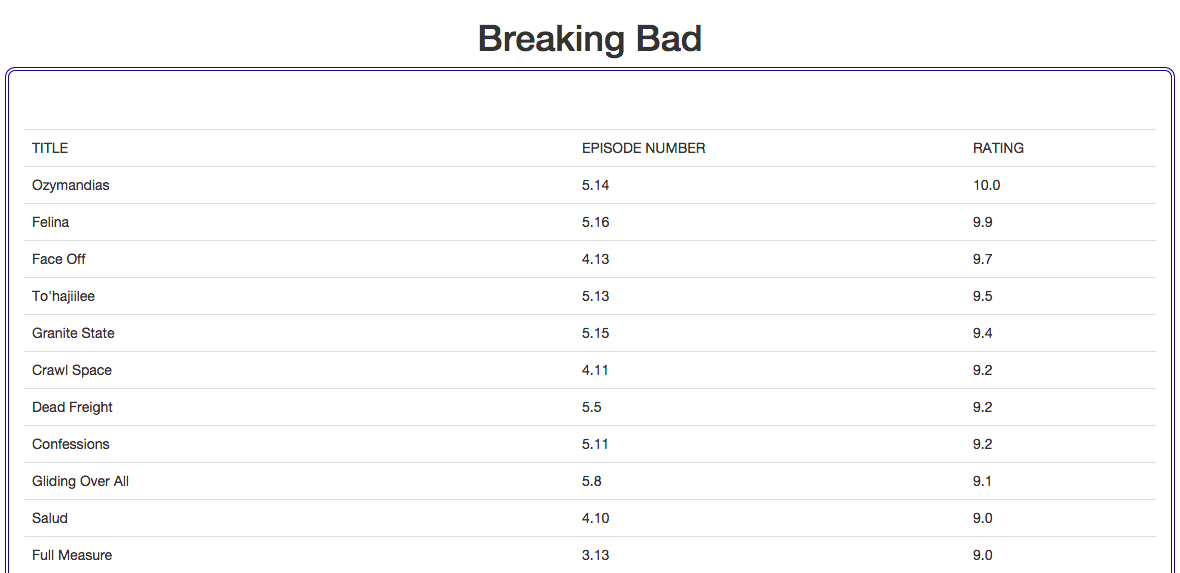
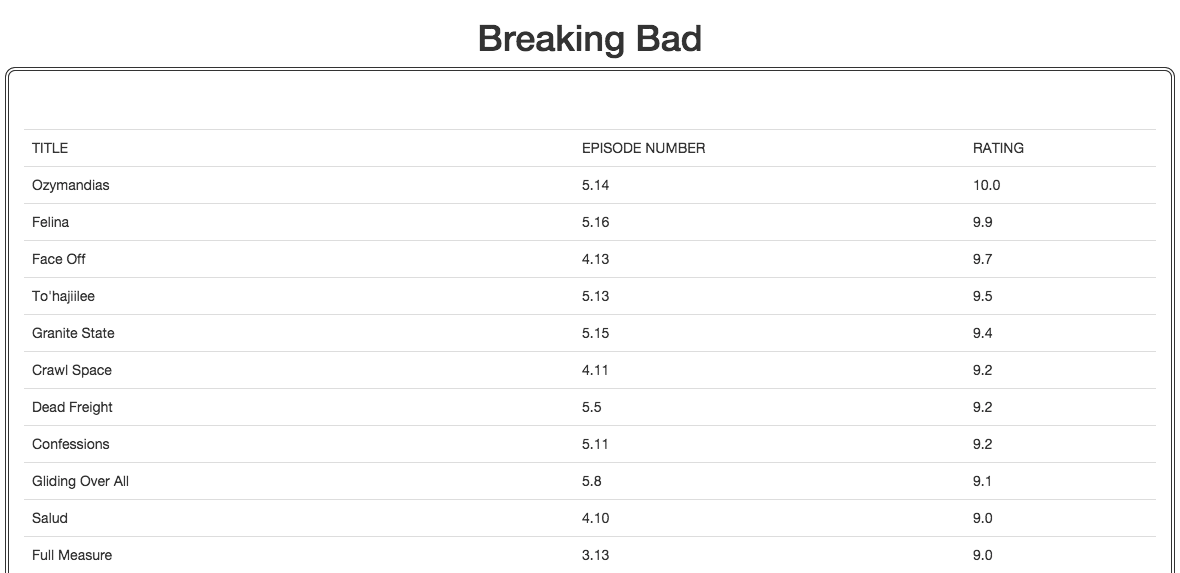
before deployment

diff --git a/app/assets/stylesheets/style.css.scss b/app/assets/stylesheets/style.css.scss
@@ -8,6 +8,7 @@
 }
 $serif-font: 'Euclid', serif;
 $heading-font: 'Armonioso', sans-serif;
+$teal: #06cc84;
 
 body {
   background-image: url(geometry2.png);
@@ -20,7 +21,7 @@ body {
   border-radius: 8px;
   height: 100px;
   padding: 20px 70px 20px 70px;
-  color: #06cc84; //light teal
+  color: $teal;
   text-decoration: none;
   font-family: $serif-font;
   font-size: 16pt;
@@ -30,7 +31,6 @@ body {
   width: 700px;
   margin: 0 auto;
 }
-
 h1 {
   font-family: $heading-font;
   font-size: 64pt;
@@ -42,7 +42,7 @@ h1 {
 h3 {
   font-family: $serif-font;
   margin-top: -60px;
-  color: #06cc84;
+  color: $teal;
   font-size: 20pt;
 }
 #name {
@@ -64,7 +64,7 @@ h3 {
 
 h4 {
   font-family: $heading-font;
-  color: #06cc84;
+  color: $teal;
   font-size: 22pt;
   margin-bottom: 50px;
 }
@@ -97,7 +97,7 @@ h4 {
   margin: 0 auto;
   line-height: 150%;
   text-decoration: none;
-  color:#06cc84;
+  color:$teal;
 }
 #really-like ul, #about-me ul, #skills ul {
   list-style-type: none;
@@ -123,7 +123,7 @@ h4 {
   margin: 0 10px 0 10px;
 }
 #github {
-  background-image: url(github.png);
+  background-image: url(heisencat.png);
 }
 #twitter {
   background-image: url(twitter.png);
@@ -134,7 +134,6 @@ h4 {
 #linkedin {
   background-image: url(linkedin.png);
 }
-
 
 .projjies-container {
   width: 80%;
@@ -162,7 +161,7 @@ h4 {
   position: relative;
   width: 350px;
   float: left;
-//  border: 1px solid darkblue;
+  border: 4px double $teal;
   border-radius: 10px;
 }
 span.text-content {
@@ -219,9 +218,15 @@ span.text-content {
   font-family: $serif-font;
   margin: 0 20px 0 20px;
 }
-
 .divider {
   margin: 0 auto;
   margin-top: -40px;
   width:240px;
+}
+a {
+  text-decoration: none;
+}
+#cv {
+  font-family: $heading-font;
+  color: $teal;
 }

diff --git a/app/assets/templates/about.html b/app/assets/templates/about.html
@@ -1,4 +1,5 @@
-<div class="navigation-buttons">
+<div class="navigation-buttons"
+		 xmlns="http://www.w3.org/1999/html">
 	<a class="page-links" ui-sref="home">home</a>
 	<a class="page-links" ui-sref="portfolio">portfolio</a>
 	<a class="page-links" ui-sref="contact">contact</a>
@@ -14,7 +15,7 @@
 		<div class="divider"><img src="assets/horizontalDivider.png" /></div>
 		<p>Ruby, Java, C++</p>
 		<p>HTML5</p>
-		<p>CSS, Bootstrap, SASS</p>
+		<p>CSS3, Bootstrap, SASS</p>
 		<p>Javascript, jQuery, AngularJS</p>
 		<p>Ruby on Rails, NodeJS</p>
 		<p>Firebase, PostgreSQL</p>
@@ -25,7 +26,7 @@
 		<div class="divider"><img src="assets/horizontalDivider.png" /></div>
 		<p>My name is Brooke Fox. I am a web developer with a background in mathematics. I have strong problem solving
 			skills and a desire to learn new things every day. I completed a Bachelor of Science in mathematics in May 2012 and a Master of Science in mathematics in May 2014, both from Northern Arizona University in Flagstaff, Arizona.</p>
-		<p>You can view my CV <a href="https://www.dropbox.com/s/ortv2k3h619zolj/CV.pdf?dl=0" id="cv">here<a>.</p>
+		<p>You can view my CV <a href="https://www.dropbox.com/s/ortv2k3h619zolj/CV.pdf?dl=0" id="cv">here</a>.</p>
 	</div>
 	<div id="really-like">
 		<h4>Other stuff I like</h4>
@@ -34,5 +35,6 @@
 		<p>Long-form improv & stand-up comedy</p>
 		<p>Baseball</p>
 		<p>Board games</p>
+		<p>Podcasts</p>
 	</div>
 </div>

diff --git a/app/assets/templates/portfolio.html b/app/assets/templates/portfolio.html
@@ -5,8 +5,8 @@
 </div>
 
 <div class="page-heading">
-	<h1>Portfolio</h1>
-	<a href="http://github.com/brookekfox" class="page-links">github</a>
+	<a href="http://github.com/brookekfox"><h1>Portfolio</h1></a>
+	<!--<a href="http://github.com/brookekfox" class="page-links">github</a>-->
 </div>
 
 <div class="projjies-container img-list">
@@ -25,7 +25,7 @@
 		<span class="text-content">
 			<span>
 				<h4>Tic Tac Toe</h4>
-				<p class="desc">Tic Tac Toe built with AngularJS with Firebase</p>
+				<p class="desc">Tic Tac Toe built with AngularJS and Firebase</p>
 			</span>
 		</span>
 	</a>
@@ -55,16 +55,13 @@
 		<span class="text-content">
 			<span>
 				<h4>Best Episodes</h4>
-				<p class="desc">An application which lists every episode of a television series based on the IMDb ratings built
-					in
-					Ruby on
-			Rails</p>
+				<p class="desc">An application which lists every episode of a television series based on the IMDb ratings built in Ruby on Rails</p>
 			</span>
 		</span>
 	</a>
 
 	<a href="https://math-academy.herokuapp.com" class="projjie">
-		<img src="assets/math.png" width="350" height="300" style="border-radius: 10px;" />
+		<img src="assets/math.png" width="350" height="300" style="border-radius: 10px;"/>
 		<span class="text-content">
 			<span>
 				<h4>MathAcademy</h4>
